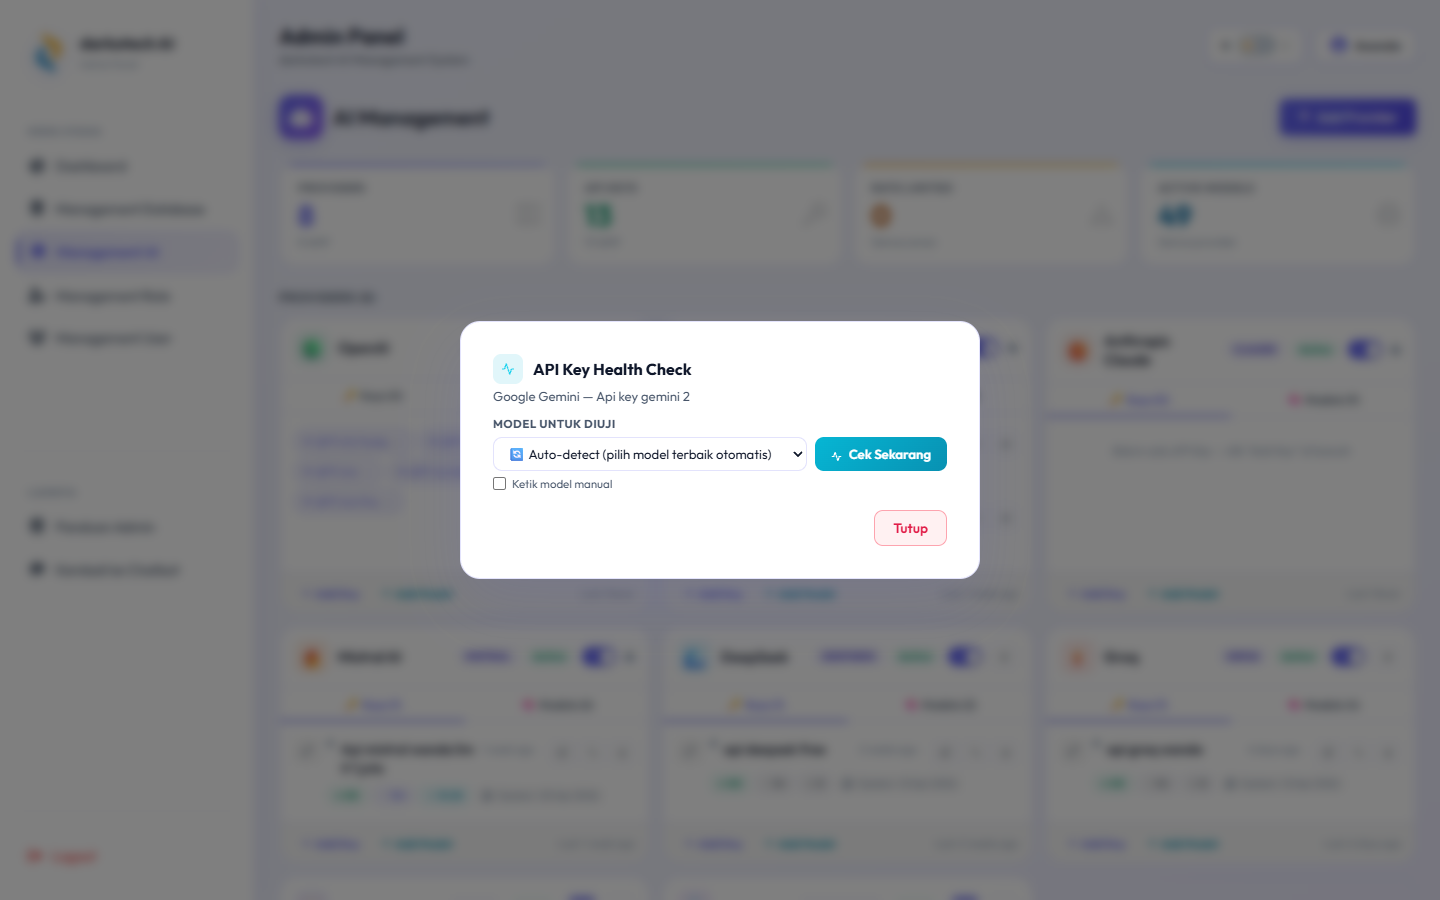
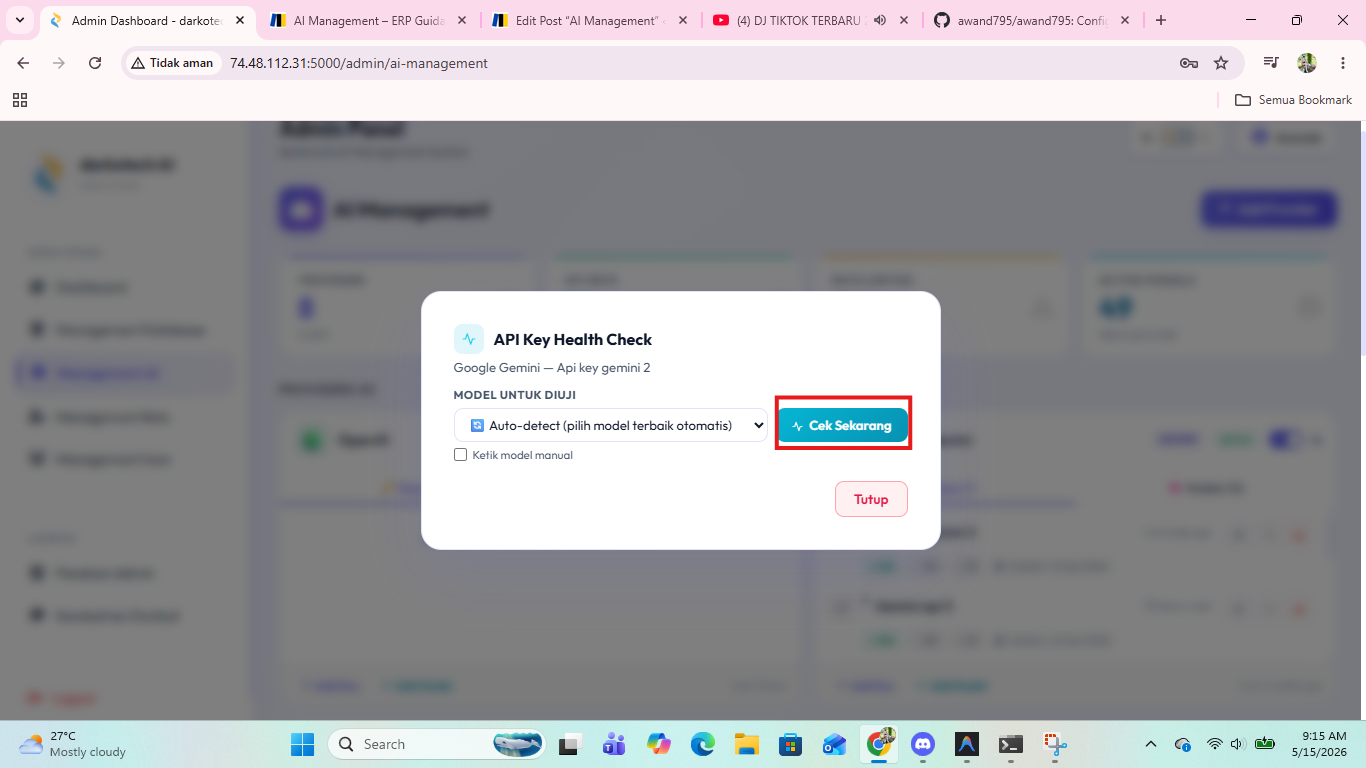
penambahan tutorial di modul ai management untuk hasil check health

diff --git a/resources/views/admin/guide.blade.php b/resources/views/admin/guide.blade.php
@@ -497,9 +497,17 @@
 
                             [
                                 'no' => 16,
+                                'text' => 'Pop UP untuk mengecek Kesehatan',
+                                'desc' => 'Pilih model yang ingin anda gunakan untuk mengecek AI atau biarkan saja untuk mode auto biar AI sendiri yang memilih model yang akan digunakan untuk mengecek kondisi kesehatan AI dan setelah itu anda bisa klik tombol cek sekarang',
+                                'img' => 'real_ai_health_modal.png',
+                                'label' => 'TOMBOL HEALTH CHECK'
+                            ],
+
+                            [
+                                'no' => 17,
                                 'text' => 'Hasil Health Check',
                                 'desc' => 'Modal Health Check (kotak merah) menampilkan hasil pengujian: status key (Valid/Invalid/Rate Limited/Expired), waktu respons, pesan error jika ada, dan rekomendasi tindakan.',
-                                'img' => 'real_ai_health_modal.png',
+                                'img' => 'real_ai_health_modal2.png',
                                 'label' => 'HASIL HEALTH CHECK'
                             ],
                         ],
